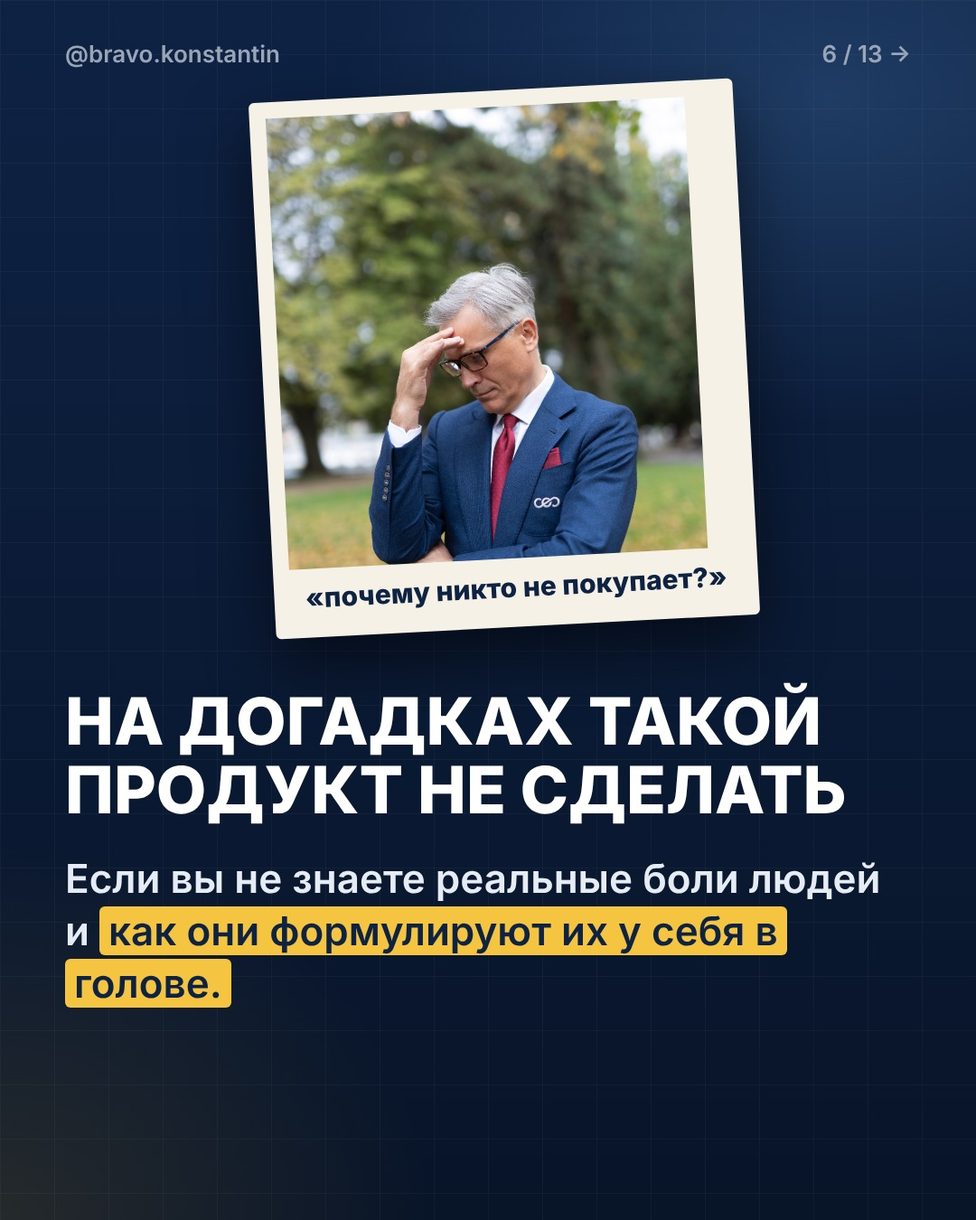
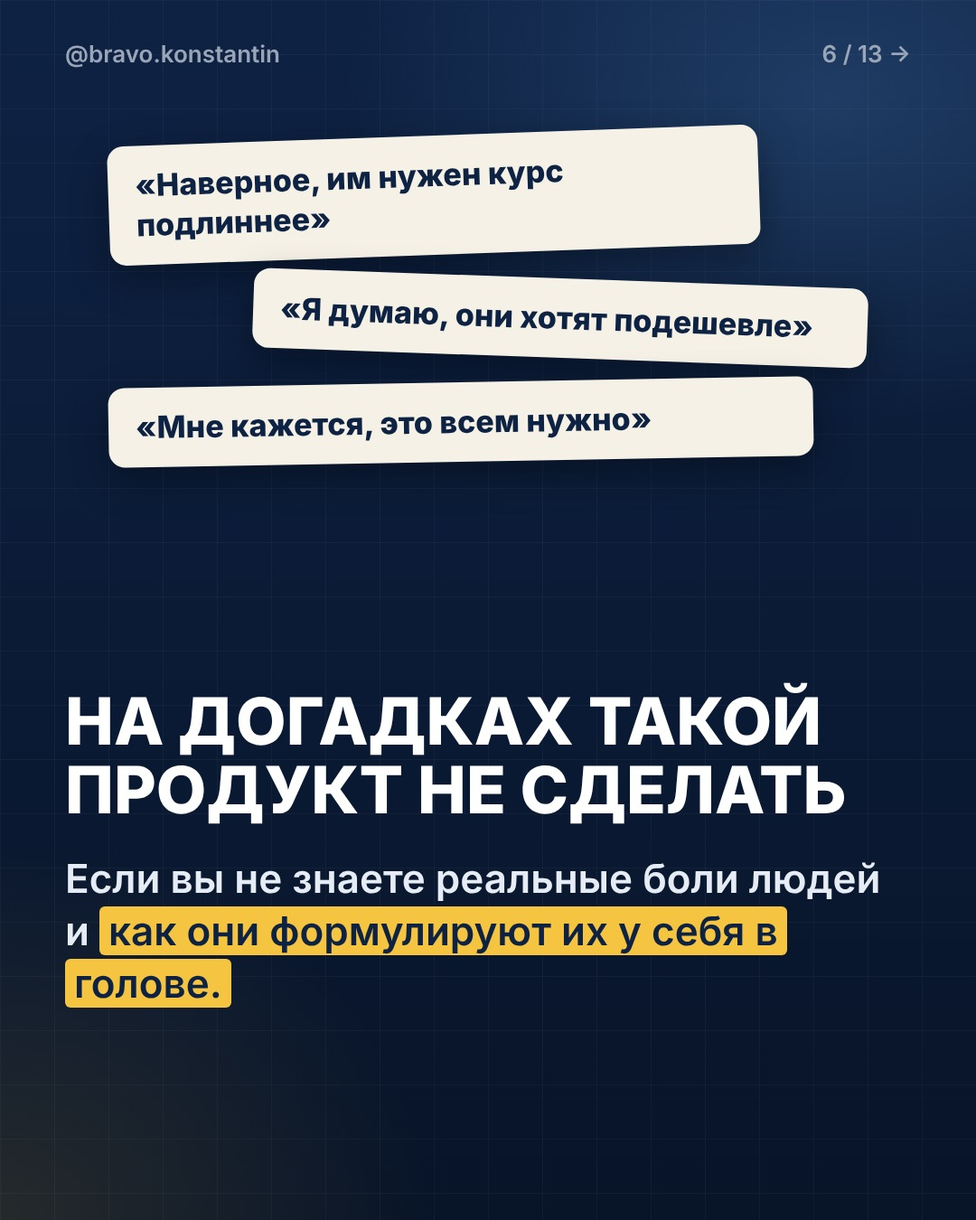
Пирожки без фото внутри + 5 каруселей ОПЫТ (16-20.11)
Claude-Session: https://claude.ai/code/session_01Q63LAQASQZAPGiGBoPTq7m

Changed region(s): [[0.0917, 0.0622, 0.9167, 0.5289]]

diff --git a/tools/make_5_karuselej_opyt.py b/tools/make_5_karuselej_opyt.py
@@ -1,0 +1,138 @@
+import sys
+sys.path.insert(0, '/home/claude/work')
+from szlib import *
+
+out = {}
+
+# ===== 1. Доказываете опыт =====
+n = 11; sl = {}
+sl[1] = cover_polaroid(SH + 'c_k1.jpg', 'center 20%', n,
+    'Чем больше вы доказываете опыт, <span class="y">тем меньше платят</span>', 'Неудобная правда для тех, кому за 40', sticker='20 лет стажа!', rot=-4, side='left')
+ill = f'''<div style="position:absolute;top:120px;left:130px;right:130px">
+{card("🎓 Диплом с отличием", "transform:rotate(-2deg);margin-right:200px")}
+{card("📜 Сертификат №14", "transform:rotate(2deg);margin-top:24px;margin-left:220px")}
+{card("💼 20 лет в профессии", "transform:rotate(-1deg);margin-top:24px;margin-right:120px")}
+{card("🏆 Руководил отделом", "transform:rotate(1.5deg);margin-top:24px;margin-left:120px")}</div>'''
+sl[2] = txt(2, 'Знакомо?', 'Дипломы, стаж, должности. Вы выкладываете всё это, <span class="y">чтобы вам поверили.</span>', ill, top=760, n=n)
+ill = two('ВЫ ПОКАЗЫВАЕТЕ', 'резюме', 'дипломы, годы, должности', 'ЧЕЛОВЕК ДУМАЕТ', '«а мне?»', 'это поможет именно мне?', top=150, lc=SKY, rc=Y)
+sl[3] = txt(3, 'Клиенту не нужны регалии', 'Ему нужен его результат. Ваше резюме он пролистывает, <span class="y">свою проблему он читает.</span>', ill, top=660, n=n)
+ill = f'<div style="position:absolute;top:200px;left:120px;right:120px">{bubble("Поверьте, я правда эксперт! У меня 20 лет опыта!", me=True, extra="font-size:40px")}{bubble("Хм... а почему вы так стараетесь?", extra="font-size:40px")}</div>'
+sl[4] = txt(4, 'Доказательство звучит как оправдание', 'Чем громче «поверьте мне», <span class="y">тем меньше доверия.</span> Уверенным не нужно доказывать.', ill, top=700, n=n)
+ill = f'''<div style="position:absolute;top:130px;left:110px;right:110px">
+<div style="border-radius:24px;border:3px solid {R};background:rgba(255,107,107,.08);padding:26px 30px"><div style="font-weight:800;font-size:30px;color:{R}">✗ ТАК</div><div style="font-weight:700;font-size:38px;margin-top:10px">«У меня 20 лет опыта в бухгалтерии»</div></div>
+<div style="border-radius:24px;border:3px solid {Y};background:rgba(245,197,66,.1);padding:26px 30px;margin-top:26px"><div style="font-weight:800;font-size:30px;color:{Y}">✓ ТАК</div><div style="font-weight:700;font-size:38px;margin-top:10px">«Помогу за месяц разобраться с налогами в новой стране»</div></div></div>'''
+sl[5] = txt(5, 'Говорите о его жизни, а не о своей карьере', 'Тот же опыт. Но во второй фразе <span class="y">человек видит себя.</span>', ill, top=700, n=n)
+steps = ''.join(f'<div style="flex:1;border-radius:26px;background:rgba(255,255,255,.05);border:3px solid {c};padding:30px 20px;text-align:center"><div style="font-weight:800;font-size:34px;color:{c}">{a}</div><div style="font-weight:600;font-size:32px;margin-top:14px;line-height:1.3">{b}</div></div>' for a, b, c in [('БЫЛО', 'что мешало человеку', GR), ('СДЕЛАЛИ', 'какой шаг вместе', SKY), ('СТАЛО', 'что изменилось', Y)])
+ill = f'<div style="position:absolute;top:200px;left:90px;right:90px;display:flex;gap:24px">{steps}</div>'
+sl[6] = txt(6, 'Показывайте опыт историями', 'Формула простая: <span class="y">было, сделали, стало.</span> Одна такая история сильнее десяти дипломов.', ill, top=680, n=n)
+ill = cards_list([('📌', 'Шапка профиля: 1 строка', SKY), ('⭐', 'Хайлайтс «Обо мне»', SKY), ('📝', 'Лента: истории людей', Y)], top=170)
+sl[7] = txt(7, 'Регалиям место в шапке', 'Одной строки хватит. А в ленте <span class="y">пусть говорят результаты людей.</span>', ill, top=680, n=n)
+ill = f'<div style="position:absolute;top:150px;left:0;right:0;text-align:center"><div style="font-weight:800;font-size:200px;line-height:1;color:{Y}">45+</div><div style="font-weight:800;font-size:46px;margin-top:24px">это не стаж в резюме</div><div style="font-weight:800;font-size:46px;color:{SKY};margin-top:8px">это сотни решённых задач</div></div>'
+sl[8] = txt(8, 'Ваш возраст это козырь', 'Только показывайте его <span class="y">через задачи, которые вы решали,</span> а не через годы.', ill, top=740, n=n)
+sl[9] = big_center(9, '🔄', 'Перестаньте доказывать. Начните показывать.', 'Не «кто я», а <span class="y">«что изменится у вас».</span>', n=n)
+sl[10] = personal2(10, 'Я начинал онлайн с нуля', 'После 28 лет в бизнесе, в 52 года, в новой стране.', n=n)
+sl[11] = cta2(11, 'Хотите понять, какой результат из <span class="it" style="font-size:78px">вашего опыта</span> нужен людям?', 'Разберётесь за 2 минуты.', n=n)
+out['k1'] = sl
+
+# ===== 2. Идеальным не доверяют =====
+n = 10; sl = {}
+sl[1] = cover_full(SH + 'c_k2.jpg', 'center 85%', 'Честный разговор', 'Идеальным<br><span class="y" style="white-space:nowrap">не доверяют</span>', 'Почему ошибки продают лучше побед').replace('1 / 13', '1 / 10')
+icons = ''.join(f'<div style="width:240px;height:240px;border-radius:20px;background:#1E2C48;display:flex;align-items:center;justify-content:center;font-size:90px">{e}</div>' for e in ['🏆', '✨', '💎', '🥂', '🚀', '✅'])
+ill = f'<div style="position:absolute;top:110px;left:150px;right:150px;display:flex;flex-wrap:wrap;gap:20px;justify-content:center">{icons}</div>'
+sl[2] = txt(2, 'Только победы. Ни одной ошибки', 'Безупречные фото, успешный успех. Кажется, <span class="y">так выглядит эксперт.</span>', ill, top=760, n=n)
+ill = f'''<svg width="1080" height="600" style="position:absolute;top:110px;left:0">
+<rect x="430" y="140" width="220" height="380" rx="10" fill="#2C4A7A"/><circle cx="540" cy="90" r="46" fill="{Y}"/><rect x="505" y="135" width="70" height="10" fill="{Y}"/>
+{''.join(f'<circle cx="{x}" cy="500" r="26" fill="#3A4E73"/>' for x in [120, 200, 280, 800, 880, 960])}
+<text x="540" y="580" text-anchor="middle" font-family="S" font-weight="800" font-size="36" fill="{GR}">далеко и непонятно</text></svg>'''
+sl[3] = txt(3, 'Идеальный образ отталкивает', 'Тому, у кого не бывает неудач, не верят. И <span class="y">не узнают в нём себя.</span>', ill, top=740, n=n)
+ill = cards_list([('📉', 'Не купил акции Google, Apple и биткоин по 1 $', R), ('🚲', 'Вложил 50 000 $ в чужой стартап электровелосипедов. Он обанкротился из-за войны', R)], top=170, size=36)
+sl[4] = txt(4, 'Мои ошибки', 'Я мог купить и не купил. Я вложил и <span class="y">потерял всё полностью.</span>', ill, top=720, n=n)
+ill = two('ОШИБКИ', '50&nbsp;000&nbsp;$', 'потеряно в чужом стартапе', 'ТЕ ЖЕ ГОДЫ', '×10 и ×14', 'лучшие проекты', top=150, lc=R, rc=Y).replace('font-size:84px', 'font-size:62px')
+sl[5] = txt(5, 'Ошибки были платой за вход', 'Кто не рискует, <span class="y">не получает ни того, ни другого.</span>', ill, top=660, n=n)
+ill = f'''<svg width="1080" height="560" style="position:absolute;top:130px;left:0">
+<line x1="160" y1="430" x2="920" y2="430" stroke="#3A4E73" stroke-width="6"/>
+<circle cx="380" cy="230" r="70" fill="{SKY}"/><rect x="320" y="310" width="120" height="120" rx="30" fill="{SKY}"/>
+<circle cx="700" cy="230" r="70" fill="{Y}"/><rect x="640" y="310" width="120" height="120" rx="30" fill="{Y}"/>
+<text x="380" y="500" text-anchor="middle" font-family="S" font-weight="800" font-size="36" fill="#fff">вы</text><text x="700" y="500" text-anchor="middle" font-family="S" font-weight="800" font-size="36" fill="#fff">он</text></svg>'''
+sl[6] = txt(6, 'Ошибка ставит вас рядом', 'Человек видит: <span class="y">«он тоже был там, где я».</span> С этого начинается доверие.', ill, top=740, n=n)
+ill = cards_list([('1⃣', 'Что пробовали и не вышло', SKY), ('2⃣', 'Что поняли', SKY), ('3⃣', 'Что делаете иначе сейчас', Y)], top=170)
+sl[7] = txt(7, 'Как рассказывать об ошибке', 'Три шага. Тогда это <span class="y">не жалоба, а опыт.</span>', ill, top=680, n=n)
+ill = cards_list([('✗', 'Жалобы без вывода', R), ('✗', 'Чужие ошибки и сплетни', R), ('✗', 'То, что вредит клиентам', R)], top=170)
+sl[8] = txt(8, 'Что показывать не стоит', 'Честность это не исповедь. <span class="y">Ошибка нужна ради урока.</span>', ill, top=680, n=n)
+sl[9] = big_center(9, '🪞', 'Ваши ошибки уже стали опытом', 'Осталось <span class="y">показать его людям,</span> которые сейчас там, где были вы.', n=n)
+sl[10] = cta2(10, 'Хотите понять, сколько стоит <span class="it" style="font-size:78px">ваш опыт?</span>', 'Вместе со всеми ошибками. За 2 минуты.', n=n)
+out['k2'] = sl
+
+# ===== 3. Об этом рассказали тысячи =====
+n = 10; sl = {}
+sl[1] = cover_split(SH + 'c_k3.jpg', 'center 30%', n, 'для тех, кто молчит', 'Об этом рассказали тысячи. <span class="y">Но не вы</span>', 'Почему «всё уже сказано» это неправда')
+ill = quotes([('Об этом уже все всё сказали', -2, 'margin-right:160px'), ('Кому интересно ещё одно мнение?', 2, 'margin-left:140px'), ('Есть эксперты и получше меня', -1, 'margin-right:80px;margin-left:40px')])
+sl[2] = txt(2, 'Знакомые мысли?', 'И вы снова откладываете <span class="y">первый пост.</span>', ill, top=740, n=n)
+ill = f'<div style="position:absolute;top:150px;left:0;right:0;text-align:center"><div style="font-weight:800;font-size:220px;line-height:1;color:{R}">0</div><div style="font-weight:800;font-size:44px;margin-top:20px">постов · клиентов · евро</div></div>'
+sl[3] = txt(3, 'Так вы не начинаете вообще', 'Пока вы молчите, люди учатся <span class="y">у тех, кто говорит.</span> Даже если знают меньше вас.', ill, top=720, n=n)
+dots = ''.join(f'<circle cx="{170+(j%14)*53}" cy="{150+(j//14)*53}" r="18" fill="{Y if j == 61 else "#3A4E73"}"/>' for j in range(98))
+ill = f'<svg width="1080" height="560" style="position:absolute;top:100px;left:0">{dots}</svg>'
+sl[4] = txt(4, 'Слышат от ста. Внедряют от одного', 'Одну и ту же мысль человек слышит десятки раз. А делает, <span class="y">когда её скажет «свой» человек.</span>', ill, top=740, n=n)
+sl[5] = big_center(5, '🧭', 'Люди приходят не за информацией', 'Информации и так слишком много. Они приходят <span class="y">за человеком.</span>', n=n)
+ill = f'<div style="position:absolute;top:170px;left:90px;right:90px;text-align:center">{chip("ваш возраст")}{chip("ваш переезд", Y)}{chip("ваша профессия")}{chip("ваш язык")}{chip("ваши ошибки", Y)}{chip("ваша семья")}</div>'
+sl[6] = txt(6, 'Ваш угол уже есть', 'То, что вы прошли, <span class="y">никто не расскажет за вас.</span>', ill, top=700, n=n)
+ill = two('БЛОГЕР 25 ЛЕТ', '«Как вести бюджет»', '', 'ВЫ, 50+', '«Бюджет семьи после переезда»', '', top=150, lc=GR, rc=Y).replace('font-size:84px', 'font-size:50px')
+sl[7] = txt(7, 'Та же тема. Другой человек', 'И ровесники выбирают того, <span class="y">кто прошёл их путь.</span>', ill, top=660, n=n)
+ill = cards_list([('❓', 'Что вы прошли сами?', SKY), ('❓', 'Кому вы помогли бы 5 лет назад?', SKY), ('❓', 'Что вас злит в чужих советах?', Y)], top=170)
+sl[8] = txt(8, 'Как найти свой угол', 'Ответьте честно на три вопроса. <span class="y">Ответы и есть ваша тема.</span>', ill, top=680, n=n)
+sl[9] = personal2(9, 'Про онлайн до меня тоже рассказали тысячи', 'Но я начал в 52 года, в новой стране. И говорил с теми, кто там же.', n=n)
+sl[10] = cta2(10, 'Хотите найти, что в <span class="it" style="font-size:78px">вашем опыте</span> не расскажет никто другой?', 'Разберётесь за 2 минуты.', n=n)
+out['k3'] = sl
+
+# ===== 4. Блог это 6 профессий =====
+n = 10; sl = {}
+sl[1] = cover_polaroid(SH + 'c_k4.jpg', 'center 18%', n,
+    'Блог это 6 профессий. <span class="y">И вы удивляетесь усталости?</span>', 'Что можно не делать самому', sticker='маркетолог? монтажёр?')
+roles = ''.join(f'<div style="width:270px;height:200px;border-radius:24px;background:rgba(255,255,255,.05);border:2px solid #3A4E73;display:flex;flex-direction:column;align-items:center;justify-content:center"><div style="font-size:70px">{e}</div><div style="font-weight:800;font-size:32px;margin-top:8px">{t}</div></div>' for e, t in [('📊', 'Маркетолог'), ('✍', 'Копирайтер'), ('🎨', 'Дизайнер'), ('🎬', 'Монтажёр'), ('🎤', 'Оратор'), ('📈', 'Аналитик')])
+ill = f'<div style="position:absolute;top:120px;left:100px;right:100px;display:flex;flex-wrap:wrap;gap:22px;justify-content:center">{roles}</div>'
+sl[2] = txt(2, 'Вы ведёте блог сами', 'Значит, вы одновременно <span class="y">шесть специалистов.</span> Каждый день.', ill, top=760, n=n)
+ill = two('КАЖДОЙ РОЛИ', 'годы', 'люди учатся профессионально', 'ВЫ ЖДЁТЕ', '2 месяца', 'и уже результат', top=150, lc=SKY, rc=R)
+sl[3] = txt(3, 'И ждёте результата за 2 месяца', 'А потом ругаете себя: <span class="y">«у меня не получается».</span>', ill, top=660, n=n)
+ill = f'''<div style="position:absolute;top:200px;left:0;right:0;display:flex;justify-content:center;align-items:center;gap:20px">
+<div style="width:560px;height:250px;border-radius:40px;border:8px solid #fff;padding:16px;box-sizing:border-box;display:flex"><div style="width:10%;background:{R};border-radius:22px"></div></div>
+<div style="width:34px;height:110px;border-radius:0 14px 14px 0;background:#fff"></div></div>'''
+sl[4] = txt(4, 'Вы не ленивы. Вы перегружены', 'Шесть ролей на одном человеке. <span class="y">Выгорание здесь закономерно.</span>', ill, top=700, n=n)
+ill = cards_list([('✍', 'Тексты и подписи', SKY), ('💡', 'Идеи и сценарии', SKY), ('🎨', 'Обложки', SKY), ('📈', 'Разбор цифр', SKY)], top=120)
+sl[5] = txt(5, 'Что можно отдать ИИ', 'Черновики, идеи, рутина. <span class="y">ИИ делает это за минуты.</span>', ill, top=740, n=n)
+ill = cards_list([('🙂', 'Ваше лицо и голос', Y), ('🧠', 'Ваш опыт и истории', Y), ('🤝', 'Общение с людьми', Y)], top=170)
+sl[6] = txt(6, 'Что оставить себе', 'То, за что вам доверяют. <span class="y">Этого ИИ не заменит.</span>', ill, top=680, n=n)
+ill = two('РАНЬШЕ', '10 часов', 'в день на контент', 'СЕЙЧАС', '≈ 1 час', 'с командой ИИ-сотрудников', top=160)
+sl[7] = txt(7, 'Мои цифры', 'Я раньше тратил на контент 10 часов в день. <span class="y">Сейчас около часа.</span>', ill, top=660, n=n)
+ill = cards_list([('1', 'Неделя 1: тексты через ИИ', SKY), ('2', 'Неделя 2: идеи и сценарии', SKY), ('3', 'Неделя 3: обложки', SKY), ('4', 'Неделя 4: разбор цифр', Y)], top=120)
+sl[8] = txt(8, 'Начните с одной роли', 'Не всё сразу. <span class="y">Одна роль в неделю,</span> и через месяц вы дышите свободнее.', ill, top=740, n=n)
+sl[9] = big_center(9, '⏳', 'Освободите время для главного', 'Для людей и для <span class="y">своего опыта.</span> Остальное делегируйте.', n=n)
+sl[10] = cta2(10, 'Хотите понять, как превратить <span class="it" style="font-size:78px">ваш опыт</span> в доход без шести профессий?', 'Разберётесь за 2 минуты.', n=n)
+out['k4'] = sl
+
+# ===== 5. Клиент покупает себя через 3 месяца =====
+n = 10; sl = {}
+sl[1] = cover_full(SH + 'c_k5.jpg', 'center 80%', 'Про продажи без давления', 'Клиент покупает<br>не курс, а себя<br><span class="y" style="white-space:nowrap">через 3 месяца</span>', 'Как это использовать').replace('1 / 13', '1 / 10')
+ill = cards_list([('📚', '8 модулей', GR), ('🎥', '24 видеоурока', GR), ('🎁', '3 бонуса', GR), ('💬', 'Чат поддержки', GR)], top=120)
+sl[2] = txt(2, 'Вы рассказываете программу', 'Модули, уроки, бонусы. <span class="y">А человек зевает.</span>', ill, top=740, n=n)
+sl[3] = big_center(3, '😐', 'В программе он себя не видит', 'Он видит работу, которую надо сделать. <span class="y">А не жизнь, которую получит.</span>', n=n)
+ill = f'''<svg width="1080" height="580" style="position:absolute;top:110px;left:0">
+<ellipse cx="560" cy="230" rx="330" ry="170" fill="#1E2C48" stroke="{Y}" stroke-width="6"/>
+<circle cx="300" cy="440" r="30" fill="#1E2C48" stroke="{Y}" stroke-width="5"/><circle cx="250" cy="510" r="18" fill="#1E2C48" stroke="{Y}" stroke-width="4"/>
+<text x="560" y="210" text-anchor="middle" font-family="S" font-weight="800" font-size="44" fill="#fff">«Я уже получаю</text><text x="560" y="270" text-anchor="middle" font-family="S" font-weight="800" font-size="44" fill="{Y}">свои 500 € в месяц»</text></svg>'''
+sl[4] = txt(4, 'Желание купить рождается здесь', 'В момент, когда человек <span class="y">представил свой результат.</span>', ill, top=740, n=n)
+ill = two('БЫЛО', 'страх', '«проедаю подушку, опыт не нужен»', 'СТАЛО', 'опора', '«свой доход из того, что я умею»', top=150, lc=GR, rc=Y).replace('font-size:84px', 'font-size:70px')
+sl[5] = txt(5, 'Нарисуйте «было» и «стало»', 'Словами человека, а не своими. <span class="y">Так, чтобы он узнал себя.</span>', ill, top=660, n=n)
+ill = cards_list([('💶', 'Что изменится в деньгах?', SKY), ('❤', 'Что изменится в чувствах?', SKY), ('☀', 'Как пройдёт обычный день?', Y)], top=170)
+sl[6] = txt(6, 'Три вопроса для картинки', 'Ответьте за клиента. <span class="y">Это и есть ваш главный текст.</span>', ill, top=680, n=n)
+ill = f'''<div style="position:absolute;top:130px;left:110px;right:110px">
+<div style="border-radius:24px;border:3px solid {R};background:rgba(255,107,107,.08);padding:26px 30px"><div style="font-weight:800;font-size:30px;color:{R}">✗ ПРОЦЕСС</div><div style="font-weight:700;font-size:38px;margin-top:10px">«Курс из 8 модулей по созданию онлайн-продукта»</div></div>
+<div style="border-radius:24px;border:3px solid {Y};background:rgba(245,197,66,.1);padding:26px 30px;margin-top:26px"><div style="font-weight:800;font-size:30px;color:{Y}">✓ РЕЗУЛЬТАТ</div><div style="font-weight:700;font-size:38px;margin-top:10px">«Через 3 месяца вы знаете, кому и за сколько продавать свой опыт»</div></div></div>'''
+sl[7] = txt(7, 'Одна фраза, два мира', 'Первая про вашу работу. <span class="y">Вторая про его жизнь.</span>', ill, top=700, n=n)
+sl[8] = big_center(8, '⚠', 'Но не обещайте чудо', 'Картинка должна быть честной. <span class="y">Доверие дороже одной продажи.</span>', n=n)
+sl[9] = personal2(9, 'Я начинал онлайн с нуля', 'В 52 года, после переезда в Швейцарию.', n=n)
+sl[10] = cta2(10, 'Хотите увидеть, какой результат может дать <span class="it" style="font-size:78px">ваш опыт?</span>', 'Разберётесь за 2 минуты.', n=n)
+out['k5'] = sl
+
+for k, s in out.items():
+    render(s, os.path.abspath(f'/home/claude/chernoviki-karuseli/out_{k}'))
+print('ok')

diff --git a/tools/szlib.py b/tools/szlib.py
@@ -67,3 +67,69 @@ def cta_opyt(i):
 <h1 style="font-size:66px;text-transform:none;margin-top:24px;line-height:1.15">Хотите разобраться, как применить <span class="it" style="font-size:80px">ваш опыт</span>, чтобы расти в доходе?</h1>
 <div class="p" style="margin-top:40px">Это займёт всего 2 минуты.</div>
 <div style="margin-top:50px;background:{Y};color:{NV};padding:36px 20px;border-radius:18px;box-shadow:0 0 60px rgba(245,197,66,.35)"><div style="font-weight:800;font-size:86px;line-height:1;white-space:nowrap">Пишите «ОПЫТ» &darr;</div><div style="font-weight:600;font-size:38px;margin-top:12px">в комментариях</div></div></div>''', last=True)
+
+
+FB = '/home/claude/chernoviki-karuseli/foto-baza/2026-10-zheneva/'
+
+
+def polaroid(img, pos, x, y, w, h, rot, cap=''):
+    c = f'<div style="font-family:S;font-weight:700;font-size:30px;color:{NV};text-align:center;margin-top:14px">{cap}</div>' if cap else ''
+    return f'''<div style="position:absolute;left:{x}px;top:{y}px;width:{w}px;background:#F6F1E6;padding:18px 18px {26 if cap else 18}px;border-radius:6px;transform:rotate({rot}deg);box-shadow:0 30px 70px rgba(0,0,0,.55)">
+<img src="file://{img}" style="width:{w-36}px;height:{h}px;object-fit:cover;object-position:{pos};display:block">{c}</div>'''
+
+
+def txt(i, title, text, ill='', top=700, tag=None, n=None):
+    t = f'<div class="tag">{tag}</div>' if tag else ''
+    return S(i, n or N, f'''{ill}<div class="txt" style="top:{top}px">{t}<h1 style="margin-top:{20 if tag else 0}px">{title}</h1><div class="p">{text}</div></div>''')
+
+
+def bubble(t, me=False, extra=''):
+    if me:
+        return f'<div style="display:flex;justify-content:flex-end;margin-top:20px"><div style="background:{SKY};color:{NV};font-weight:700;font-size:34px;padding:18px 28px;border-radius:28px 28px 6px 28px;max-width:680px;{extra}">{t}</div></div>'
+    return f'<div style="display:flex;margin-top:20px"><div style="background:#1E2C48;font-weight:600;font-size:34px;padding:18px 28px;border-radius:28px 28px 28px 6px;max-width:700px;{extra}">{t}</div></div>'
+
+
+def cards_list(items, top=130, left=140, right=140, size=38):
+    r = ''.join(f'<div style="display:flex;align-items:center;gap:22px;border-radius:20px;background:rgba(255,255,255,.05);border:2px solid {c};padding:20px 28px;margin-top:16px"><div style="font-size:44px">{e}</div><div style="font-weight:800;font-size:{size}px">{t}</div></div>' for e, t, c in items)
+    return f'<div style="position:absolute;top:{top}px;left:{left}px;right:{right}px">{r}</div>'
+
+
+def big_center(i, emoji, title, text, n=None):
+    return S(i, n or N, f'''<div class="txt" style="top:0;bottom:80px;display:flex;flex-direction:column;justify-content:center">
+<div style="font-size:140px">{emoji}</div><h1 style="font-size:72px;margin-top:20px">{title}</h1>
+<div class="p" style="font-size:46px;margin-top:30px">{text}</div></div>''')
+
+
+def personal2(i, title, text, n=None):
+    return S(i, n or N, f'''<div class="txt" style="top:0;bottom:80px;display:flex;flex-direction:column;justify-content:center">
+<div class="tag">моя история</div><h1 style="font-size:68px;margin-top:20px">{title}</h1>
+<div class="p" style="font-size:42px">{text}</div>
+<div style="margin-top:46px;border-radius:30px;background:rgba(245,197,66,.1);border:3px solid {Y};padding:30px 40px">
+<div style="font-weight:800;font-size:110px;line-height:1;color:{Y}">300 000+</div>
+<div style="font-weight:600;font-size:40px;line-height:1.3;margin-top:14px;color:#E6ECF5">подписчиков за год <b style="font-weight:800;color:#fff">без рекламы и коллабораций</b></div></div></div>''')
+
+
+def cta2(i, title_html, sub, n=None):
+    return S(i, n or N, f'''<div class="txt" style="top:0;bottom:70px;display:flex;flex-direction:column;justify-content:center;text-align:center">
+<div class="tag">бесплатно · 2 минуты</div>
+<h1 style="font-size:64px;text-transform:none;margin-top:24px;line-height:1.15">{title_html}</h1>
+<div class="p" style="margin-top:40px">{sub}</div>
+<div style="margin-top:50px;background:{Y};color:{NV};padding:36px 20px;border-radius:18px;box-shadow:0 0 60px rgba(245,197,66,.35)"><div style="font-weight:800;font-size:86px;line-height:1;white-space:nowrap">Пишите «ОПЫТ» &darr;</div><div style="font-weight:600;font-size:38px;margin-top:12px">в комментариях</div></div></div>''', last=True)
+
+
+def cover_polaroid(img, pos, n, title, sub, sticker=None, rot=4, side='right'):
+    x = 380 if side == 'right' else 100
+    st = f'<div style="position:absolute;{"left:90px" if side=="right" else "right:90px"};top:170px;transform:rotate(-6deg);background:{Y};color:{NV};font-weight:800;font-size:34px;padding:12px 26px;border-radius:12px;box-shadow:0 14px 40px rgba(0,0,0,.4)">{sticker}</div>' if sticker else ''
+    return f'''<div class="s"><div class="top"><span>@bravo.konstantin</span><span>1 / {n} &rarr;</span></div>
+{polaroid(img, pos, x, 110, 600, 640, rot if side == 'right' else -rot)}{st}
+<div class="txt" style="bottom:90px"><h1 style="font-size:74px">{title}</h1><div class="p" style="margin-top:22px">{sub}</div></div></div>'''
+
+
+def cover_split(img, pos, n, tag, title, sub):
+    return f'''<div class="s"><img src="file://{img}" style="position:absolute;left:0;top:0;width:540px;height:1350px;object-fit:cover;object-position:{pos}">
+<div style="position:absolute;left:470px;top:0;width:80px;height:1350px;background:linear-gradient(90deg,rgba(8,20,40,0),#0A1A33)"></div>
+<div class="top" style="left:580px"><span></span><span>1 / {n} &rarr;</span></div>
+<div style="position:absolute;left:580px;right:60px;top:0;bottom:0;display:flex;flex-direction:column;justify-content:center">
+<div style="display:inline-block;align-self:flex-start;background:{Y};color:{NV};font-weight:800;font-size:28px;letter-spacing:2px;padding:8px 18px;border-radius:10px;text-transform:uppercase">{tag}</div>
+<h1 style="font-size:68px;margin-top:26px;line-height:1.08">{title}</h1><div class="p" style="font-size:38px;margin-top:26px">{sub}</div>
+<div style="font-weight:600;font-size:28px;color:#9AA6B8;margin-top:40px">@bravo.konstantin</div></div></div>'''

diff --git a/tools/make_pirozhki_opyt.py b/tools/make_pirozhki_opyt.py
@@ -50,7 +50,10 @@ ill = f'''<div style="position:absolute;top:130px;left:170px;right:170px;backgro
 <svg width="260" height="260" style="position:absolute;top:420px;left:700px"><circle cx="110" cy="110" r="80" fill="none" stroke="{Y}" stroke-width="16"/><line x1="168" y1="168" x2="240" y2="240" stroke="{Y}" stroke-width="22" stroke-linecap="round"/></svg>'''
 sl[5] = txt(5, 'Секрет: знать свою аудиторию', 'До мелочей. Что болит, чего боятся и <span class="y">какими словами</span> они об этом говорят.', ill, top=740)
 
-ill = polaroid(FB + 'g59_park_ruka-na-lbu_PROBLEMA-ustalost.jpg', 'center 22%', 290, 100, 500, 500, -3, '«почему никто не покупает?»')
+ill = f'''<div style="position:absolute;top:150px;left:120px;right:120px">
+{card("«Наверное, им нужен курс подлиннее»", "transform:rotate(-2deg);margin-right:120px")}
+{card("«Я думаю, они хотят подешевле»", "transform:rotate(2deg);margin-top:26px;margin-left:160px")}
+{card("«Мне кажется, это всем нужно»", "transform:rotate(-1deg);margin-top:26px;margin-right:60px")}</div>'''
 sl[6] = txt(6, 'На догадках такой продукт не сделать', 'Если вы не знаете реальные боли людей и <span class="y">как они формулируют их у себя в голове.</span>', ill, top=760)
 
 ill = two('В ОПРОСЕ', '87%', '«да, купил бы»', 'ОПЛАТИЛИ', '2 человека', 'когда дошло до денег', top=150, lc=SKY, rc=R)
@@ -78,8 +81,7 @@ ill = f'''<svg width="1080" height="600" style="position:absolute;top:110px;left
 <text x="540" y="330" text-anchor="middle" font-family="S" font-weight="800" font-size="40" fill="{Y}">продукт</text></svg>'''
 sl[11] = txt(11, 'Ваше главное преимущество', 'Вы сами из этой аудитории. Переезжали, начинали заново, искали доход. <span class="y">Вы знаете их боль изнутри.</span>', ill, top=720)
 
-ill = polaroid(FB + 'g62_cvetochnye-chasy_gorizont_ruki-v-karmanah.jpg', 'center 40%', 180, 90, 720, 470, 2)
-sl[12] = txt(12, 'Я начинал так же', 'С нуля, в 52 года, в новой стране. Сегодня у меня <span class="y">более 300 000 подписчиков</span> за год без рекламы и коллабораций.', ill, top=700, tag='моя история')
+sl[12] = personal2(12, 'Я начинал так же', 'С нуля, в 52 года, в новой стране.')
 
 sl[13] = S(13, N, f'''<div class="txt" style="top:0;bottom:70px;display:flex;flex-direction:column;justify-content:center;text-align:center">
 <div class="tag">бесплатно · 2 минуты</div>
